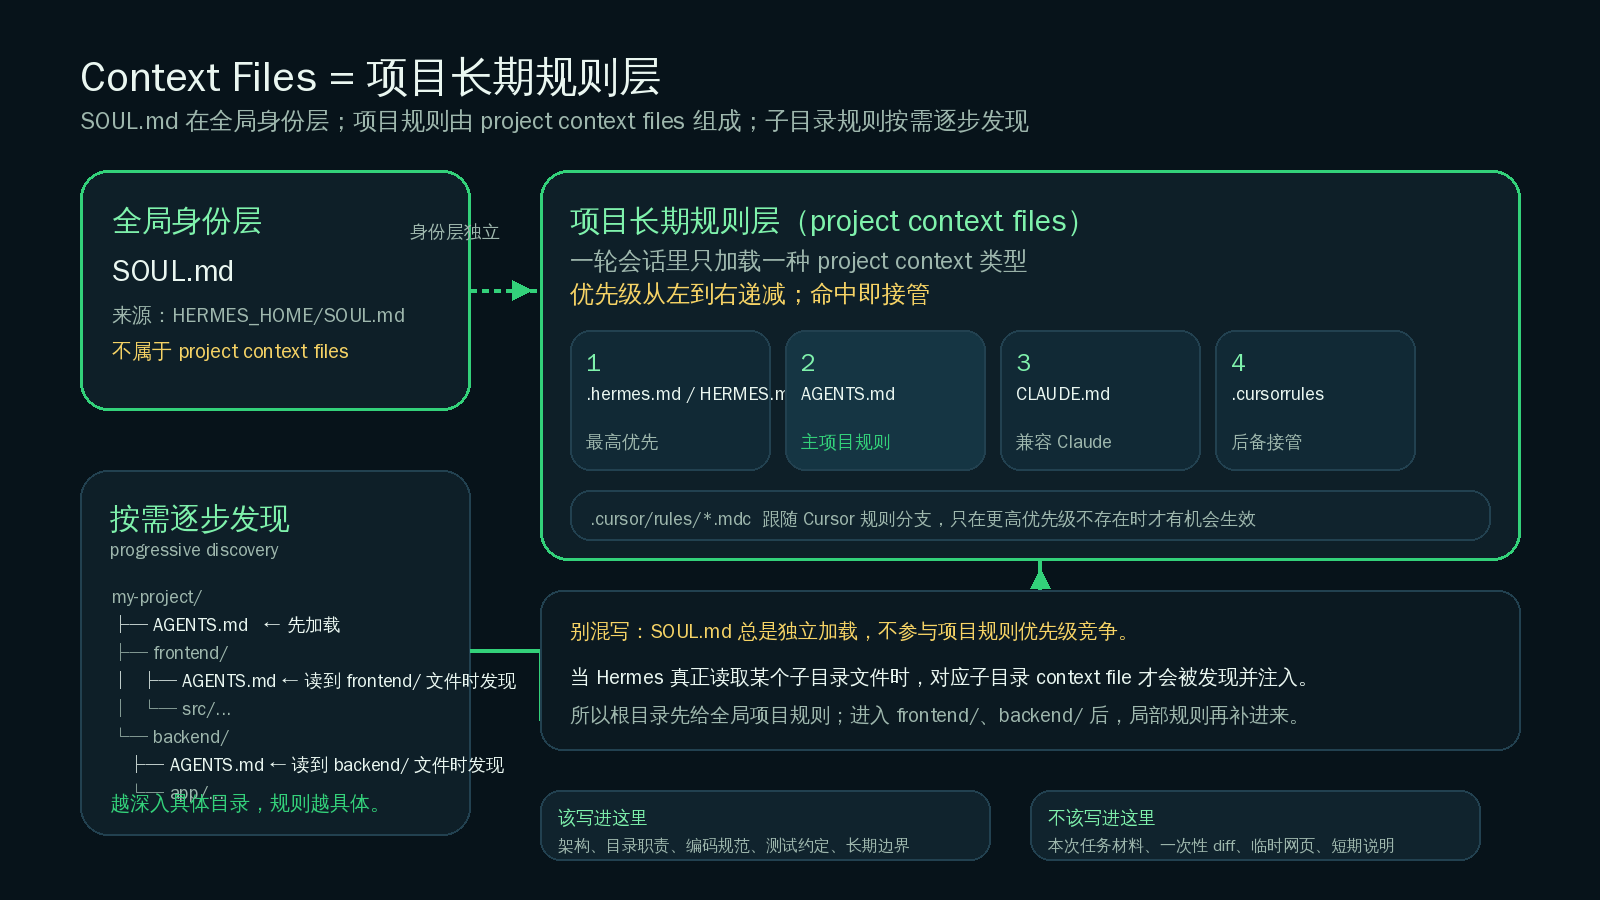
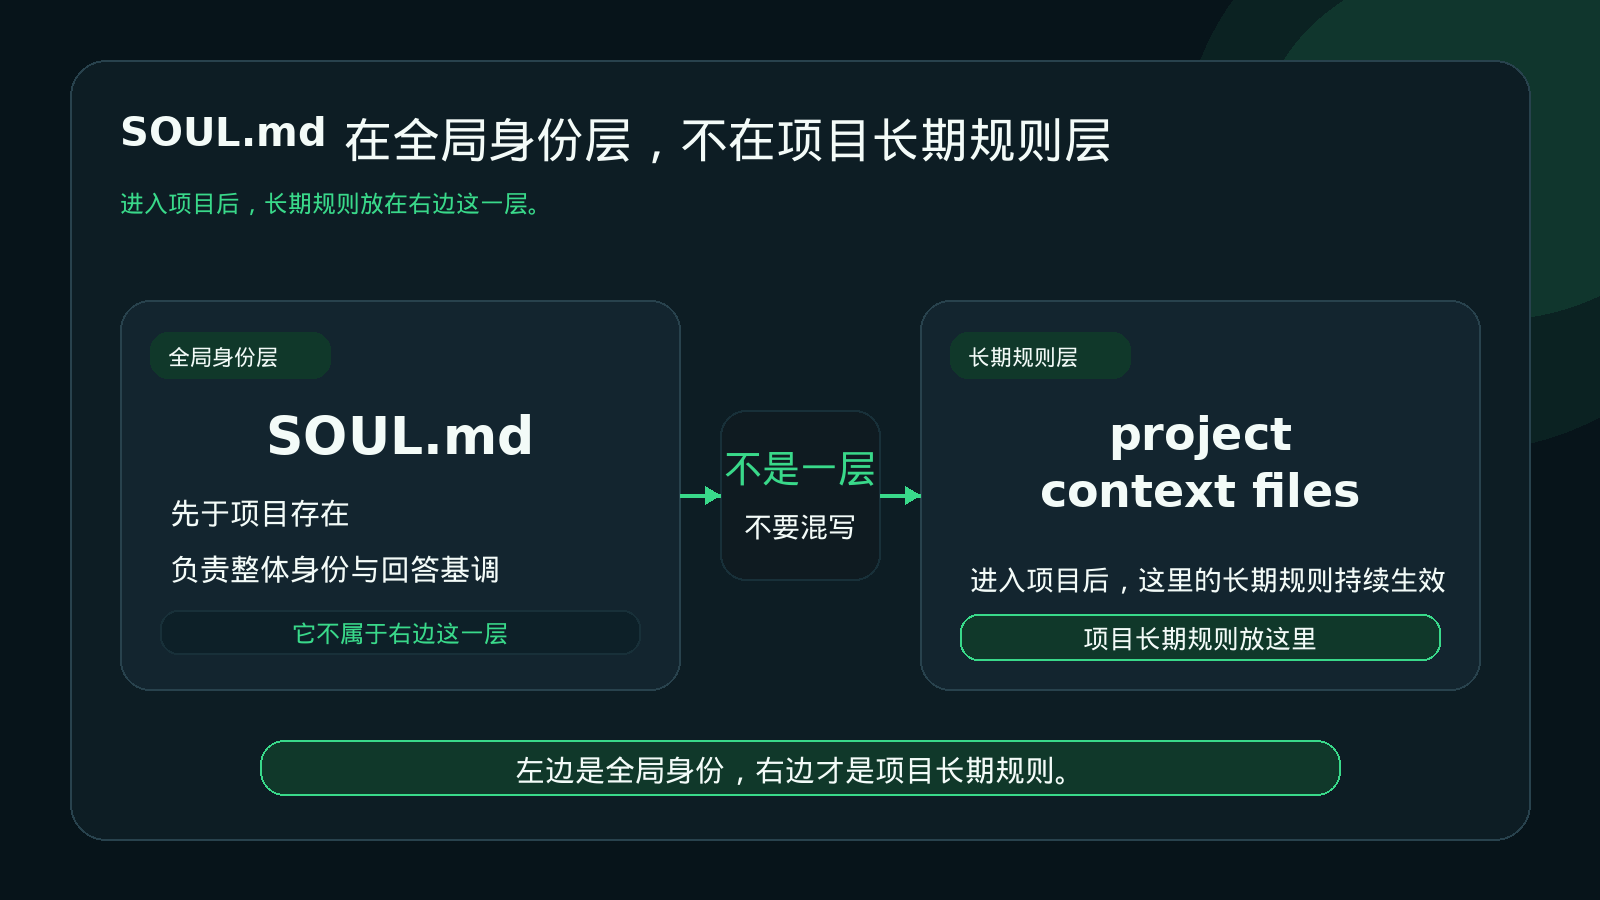
fix: simplify context-files figure 1

Changed region(s): [[0.0312, 0.0, 1.0, 0.9644], [0.0625, 0.4978, 0.0938, 0.5289], [0.0312, 0.4044, 0.0625, 0.4356]]

diff --git a/docs/start-here/build-your-own/context-system/context-files.md b/docs/start-here/build-your-own/context-system/context-files.md
@@ -3,7 +3,7 @@
 这一页只讲一件事：
 context files 是 Hermes 的长期规则层。它负责让项目约定长期生效，不用你每轮重讲。
 
-![长期规则层结构图：SOUL.md 位于全局身份层，不参与项目 context files 竞争；项目长期规则由 .hermes.md、AGENTS.md、CLAUDE.md、.cursorrules 这类 project context files 组成；当 Hermes 继续读取 frontend、backend 等子目录文件时，会逐步发现并注入对应子目录规则](../../assets/rm2-5-context-files-01-long-term-rules-map.png)
+![分层示意图：SOUL.md 在全局身份层；进入项目后，长期规则放在 project context files 这一层](../../assets/rm2-5-context-files-01-long-term-rules-map.png)
 
 ---
 
